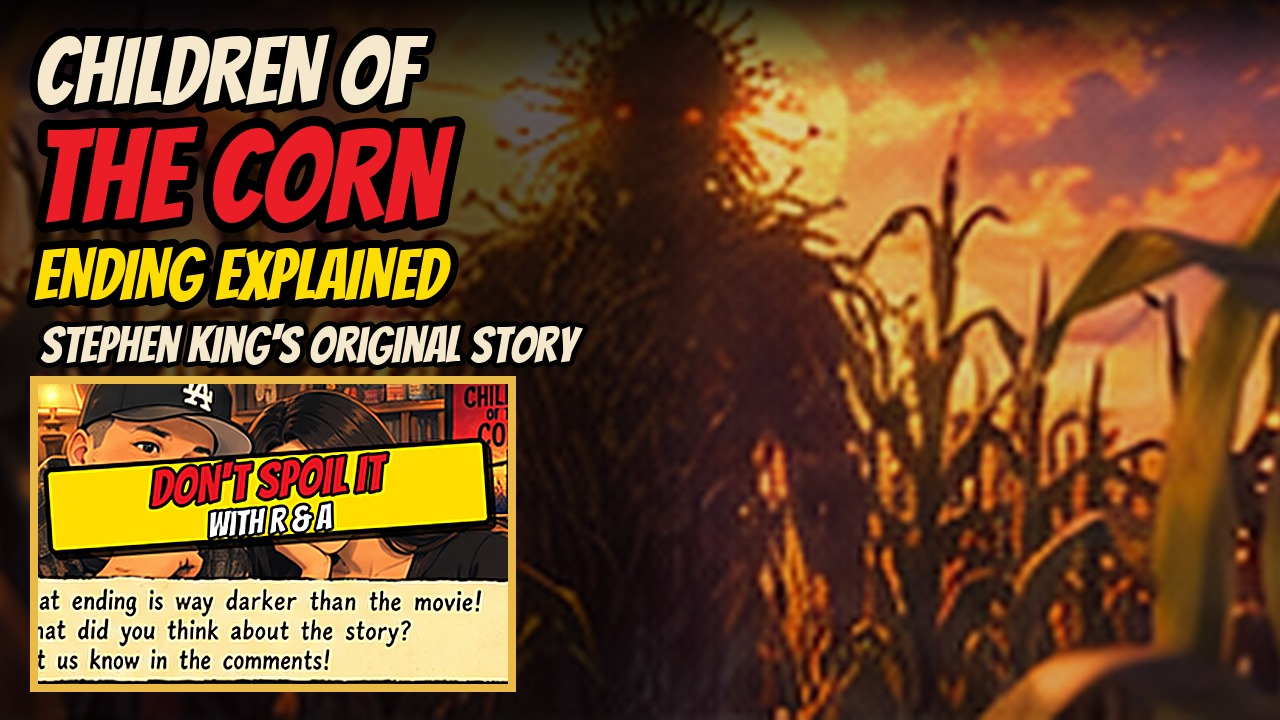
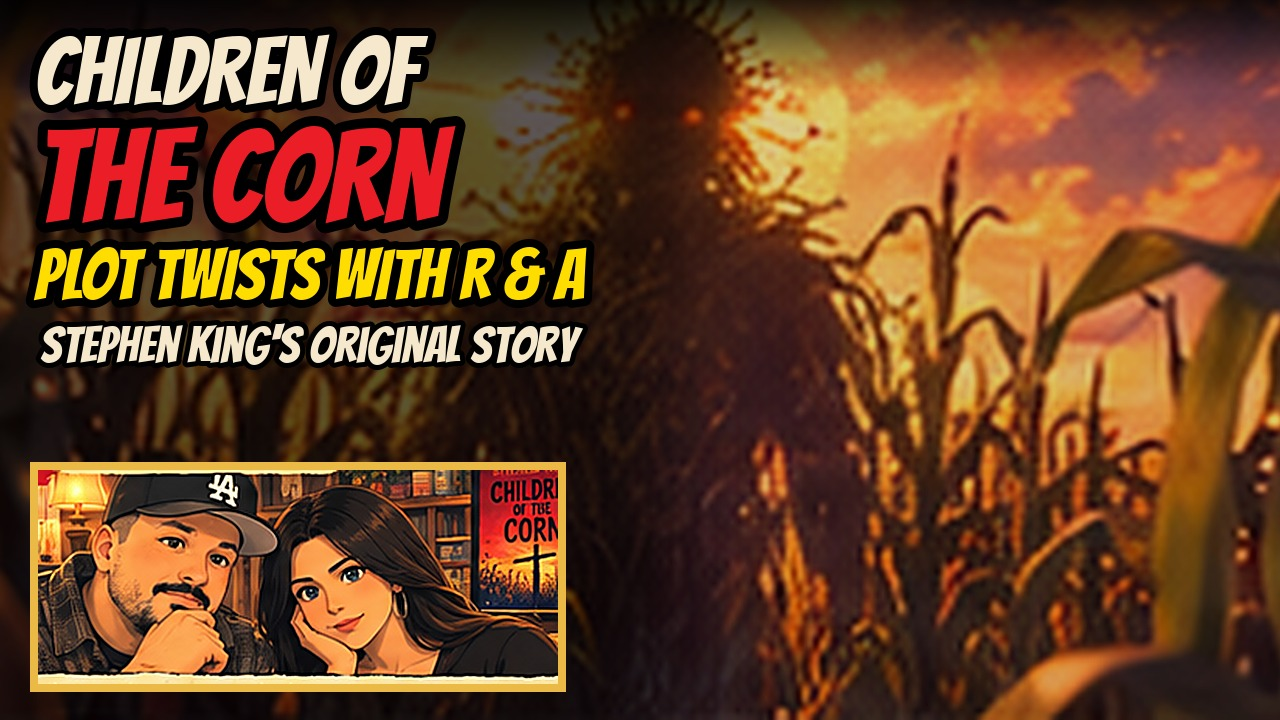
Children of the Corn thumbnail: Plot Twists with R & A, faces visible
Claude-Session: https://claude.ai/code/session_01LuZtqiovjV95gp9Coim37D

Changed region(s): [[0.0, 0.5194, 0.4688, 0.9778], [0.0312, 0.3361, 0.4688, 0.4278]]

diff --git a/video/children-of-the-corn/thumb.py b/video/children-of-the-corn/thumb.py
@@ -22,8 +22,7 @@ bg.alpha_composite(sh)
 # hosts panel (12) with banner, bottom-left
 hb = b.copy().convert("RGBA"); bn = Image.open("banner.png"); w = 300
 bn = bn.resize((w, round(bn.height * w / bn.width)), Image.LANCZOS)
-hb.alpha_composite(bn, (1456 - w // 2, 802 - bn.height // 2))
-hosts = up(hb.crop((1306, 728, 1610, 922)).convert("RGB"), w=470)
+hosts = up(hb.crop((1290, 722, 1625, 860)).convert("RGB"), w=520)
 fr = Image.new("RGB", (hosts.width + 16, hosts.height + 16), (235, 185, 70)); fr.paste(hosts, (8, 8))
 bg.alpha_composite(fr.convert("RGBA"), (30, TH - fr.height - 28))
 _tb = Image.new("RGBA", (TW, TH), (0, 0, 0, 0)); _td = ImageDraw.Draw(_tb)
@@ -35,6 +34,6 @@ def t(xy, s, size, col, sw=None):
     d.text(xy, s, font=ImageFont.truetype(F, size), fill=col, stroke_width=sw or max(8, size // 13), stroke_fill=(0, 0, 0))
 t((34, 22), "CHILDREN OF", 94, (245, 232, 205))
 t((34, 108), "THE CORN", 130, (235, 30, 40))
-t((34, 238), "ENDING EXPLAINED", 70, (255, 221, 0))
+t((34, 238), "PLOT TWISTS WITH R & A", 70, (255, 221, 0))
 d.text((40, 318), "Stephen King's Original Story", font=ImageFont.truetype(F, 50), fill=(245, 232, 205), stroke_width=5, stroke_fill=(0, 0, 0))
 bg.convert("RGB").save("thumb_corn.jpg", quality=92)
